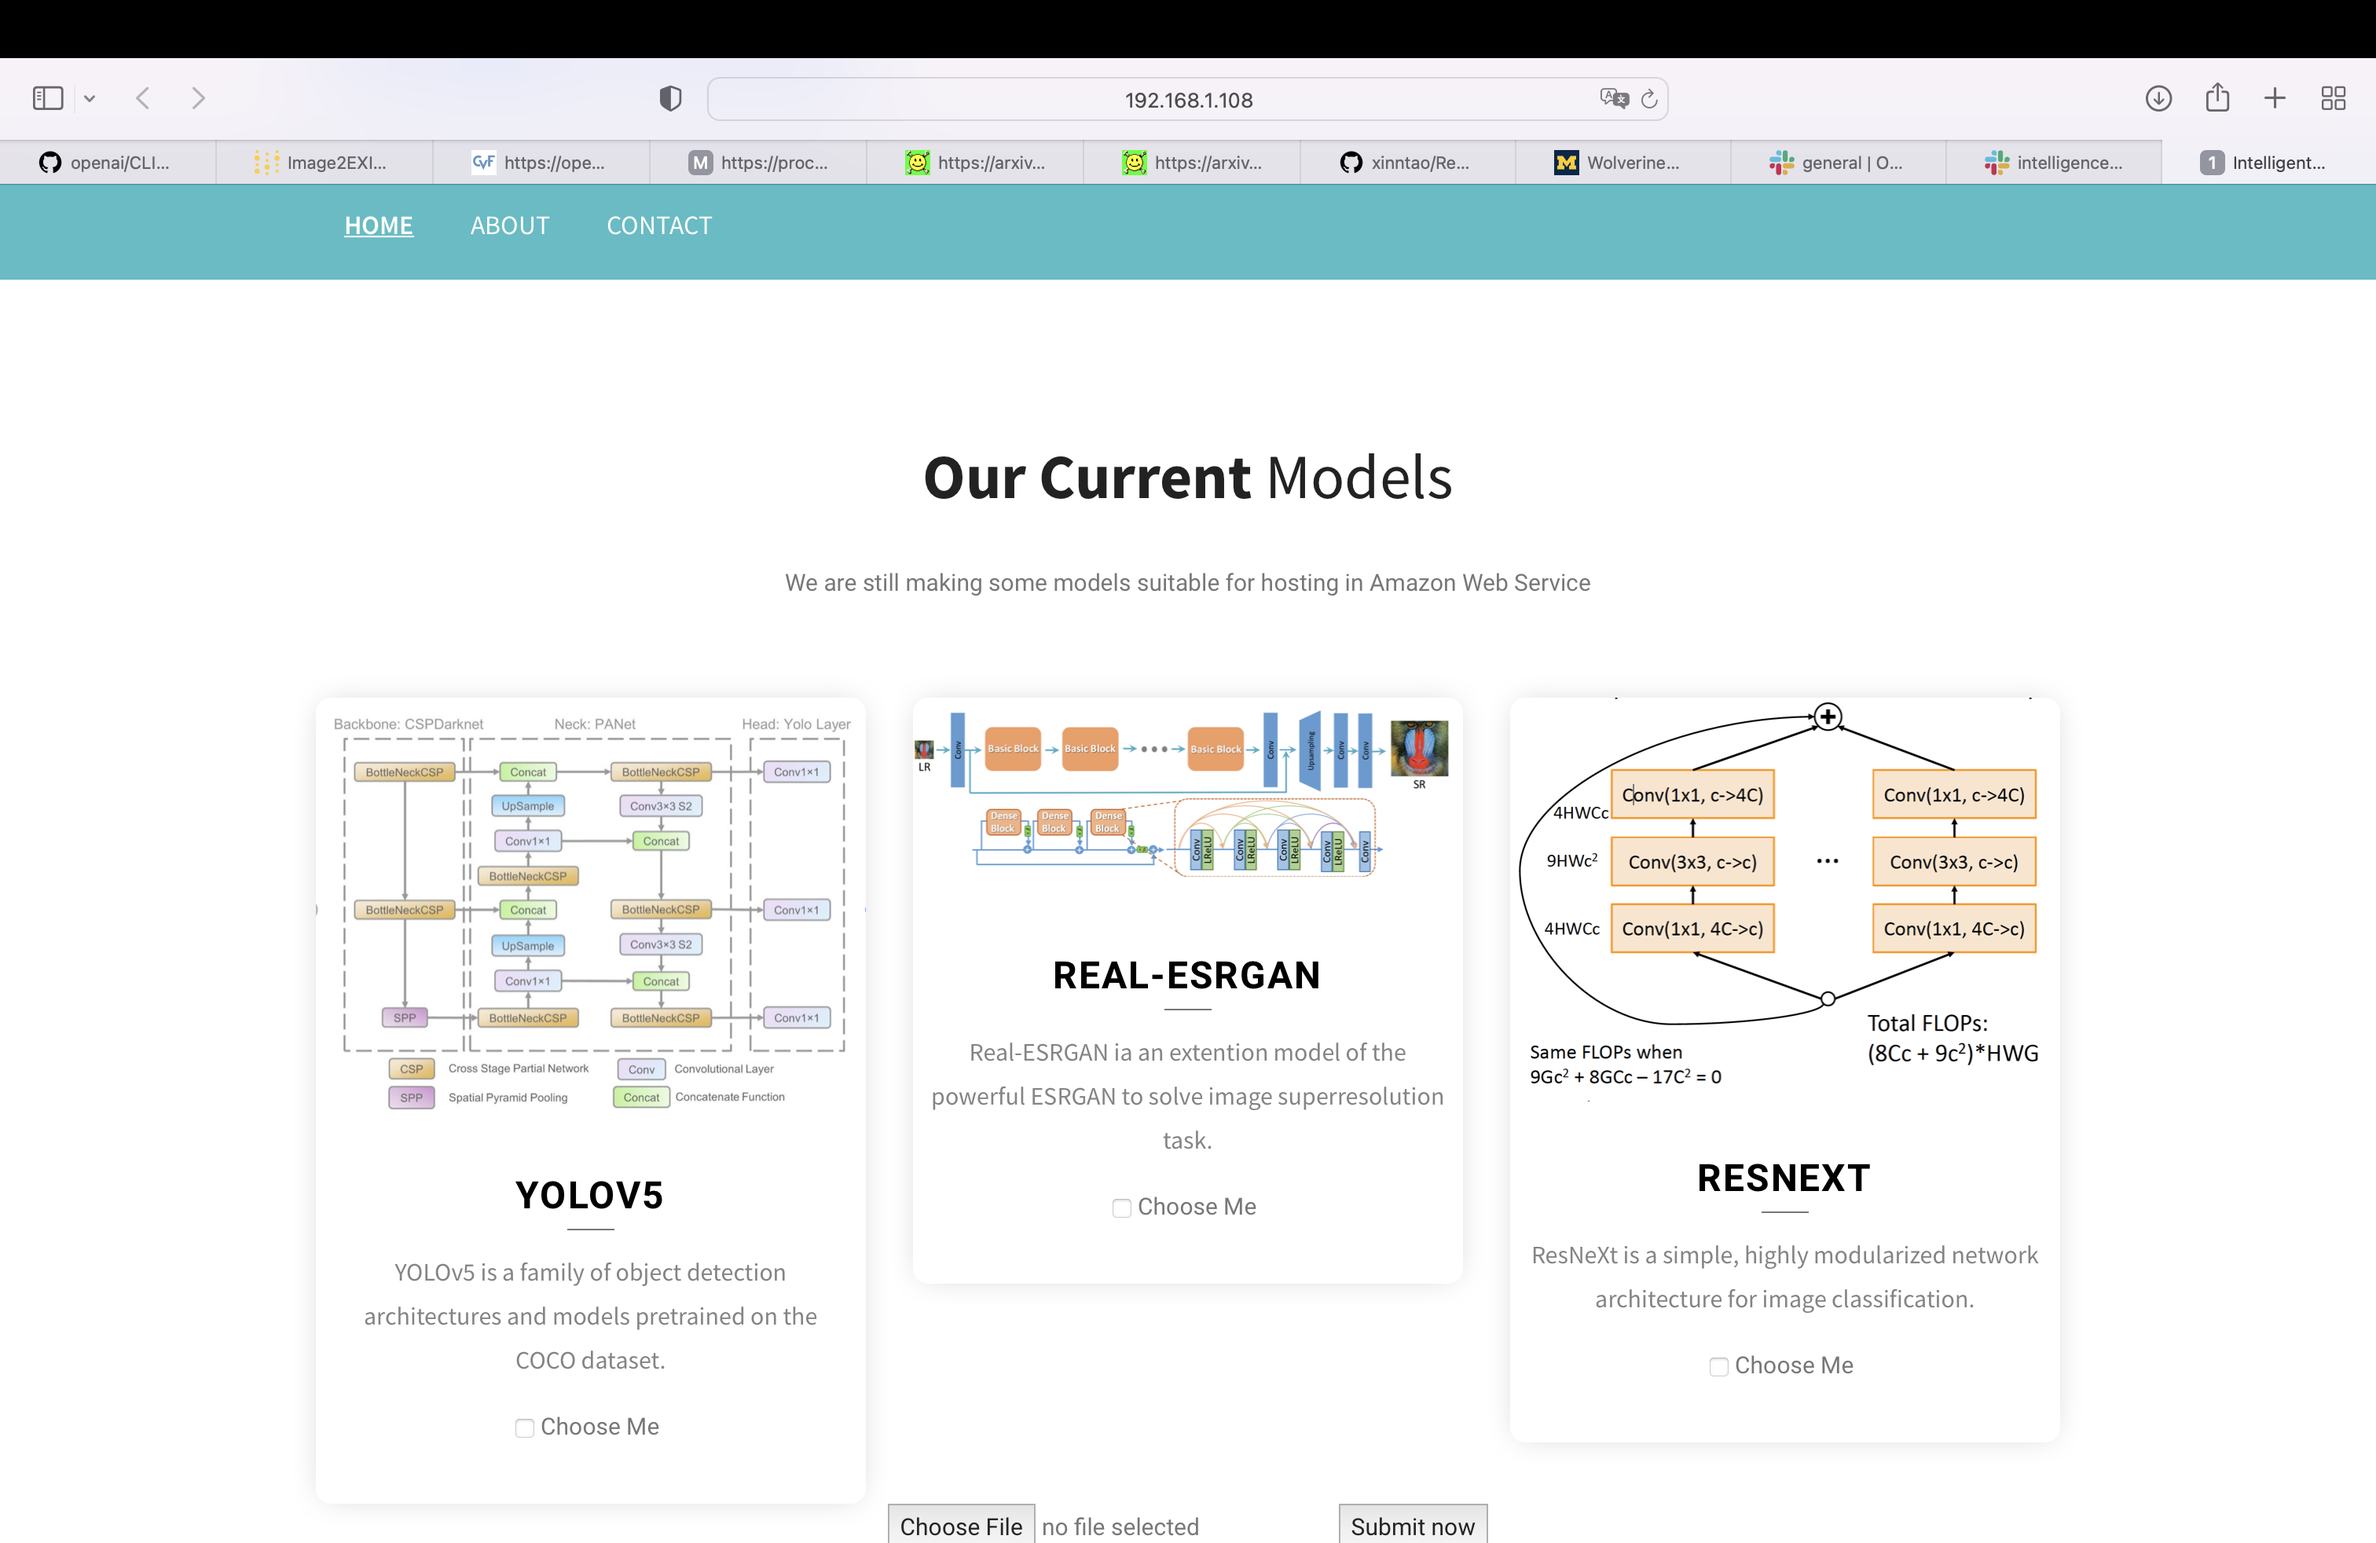
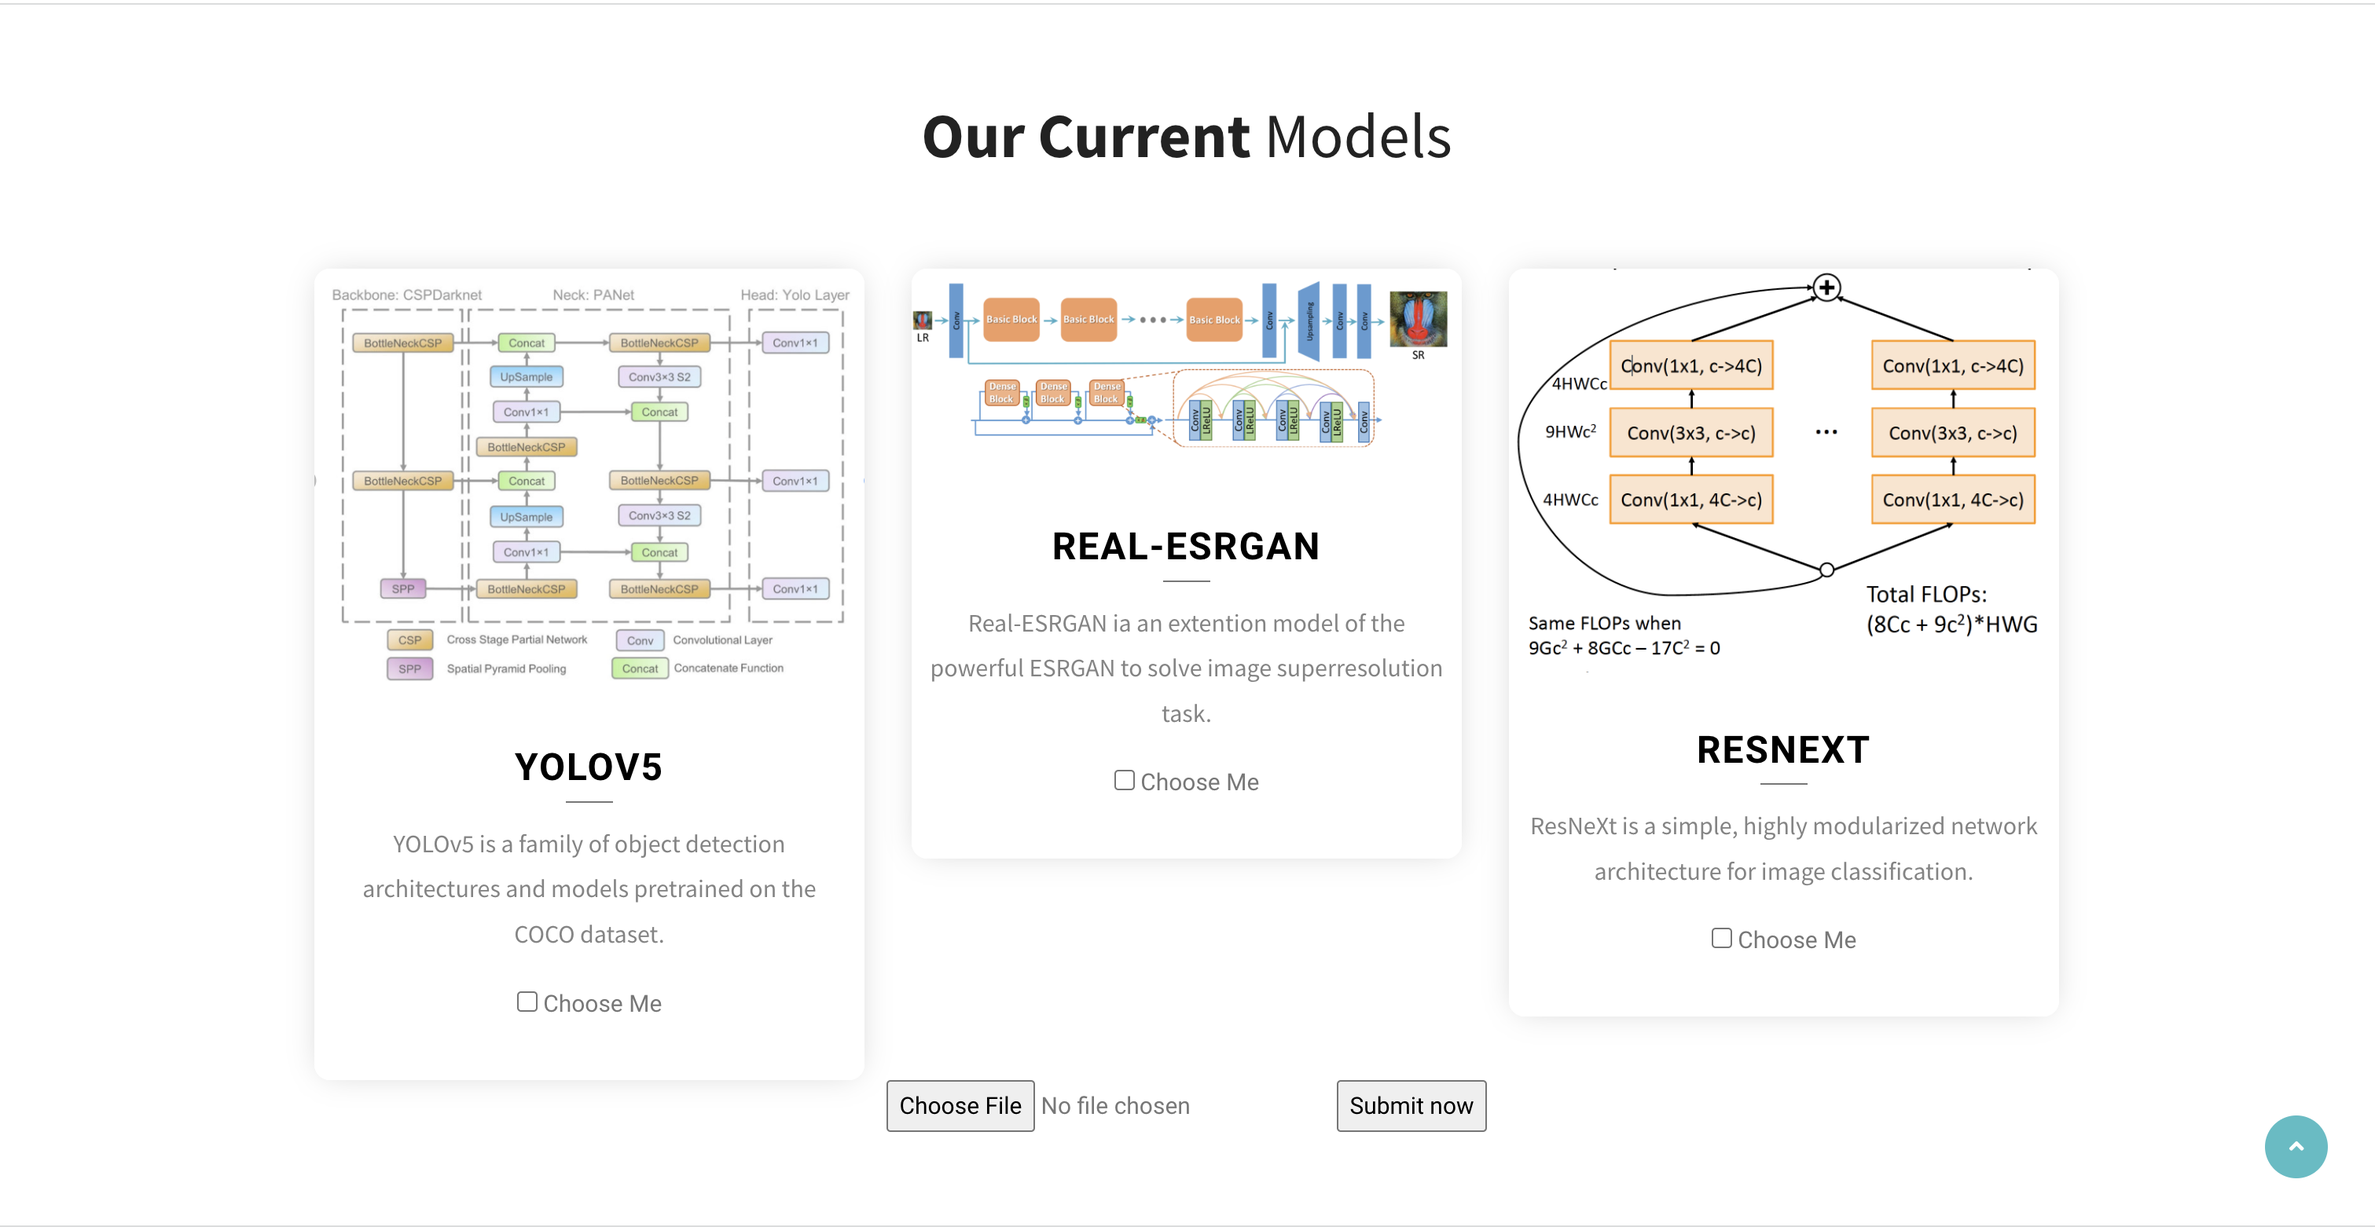
update README

diff --git a/backend/templates/index.html b/backend/templates/index.html
@@ -96,8 +96,6 @@ WEBSITE: https://themefisher.com
   </div>
 </section>
 <!--Header Upper-->
-
-
 <!--Main Header-->
 <nav class="navbar navbar-expand-lg navbar-dark">
   <div class="container">
@@ -149,10 +147,7 @@ WEBSITE: https://themefisher.com
   </div>
 </nav>
 <!--End Main Header -->
-
-
 <!--team section-->
-
 <form action = "" method = "POST" enctype="multipart/form-data" style="text-align:center">
 <section class="team-section section">
   <div class="container">
@@ -160,7 +155,7 @@ WEBSITE: https://themefisher.com
       <h3>Our Current
         <span>Models</span>
       </h3>
-      <p class="mb-0">We are still making some models suitable for hosting in Amazon Web Service</p>
+      <!-- <p class="mb-0">We are still making some models suitable for hosting in Amazon Web Service</p> -->
     </div>
     <div class="row justify-content-center">
       <div class="col-lg-4 col-md-6">

diff --git a/README.md b/README.md
@@ -5,16 +5,94 @@ This is a backend that integrate several AI models, aiming at enableing develope
 ## How to use it
 #### From Website
 
+The initial interface is as belows:
 
+![1](./readme_image/1.png)
+
+You can multi-select the models you like, choosing the file that you want to process, and click submit.
+
+Then you will be direct to the result page:
+
+![2](/Users/zhengchenhao/Desktop/Intelligent-Backend/readme_image/2.png)
+
+Each block represents the processed result of one model that you selected.  **Request The Backend Yourself** section tells you the API command if you want to request the backend directly. **Viewing Image** section gives you the processed result of your image. **Viewing Result** section presents the Json response message if you request the backend directly, which consists of three keys: **Latency, Result, and Download link**. The download link allows you to download the processed image directly.
+
+**Considering the big running cost of big language models and video models, we haven't enable text and video file submit. But we will definitely do it when we make our backend more scalable.**
 
 #### From command line API request
+
+1. **First, make sure you have [HTTPie](https://httpie.org/) installed.**
+
+To install, for linux and windows WSL:
+
+```bash
+sudo apt-get install httpie
+```
+
+For macOS:
+
+```bash
+brew install httpie
+```
+
+2. **Then you can request the backend directly:**
+
+```bash
+http --form POST http://localhost:8000/api/v1/{model_name}/ image=@{your_image_path}
+```
+
+where {model_name} is the model name that you choose, {your_image_path} is the relative or absolute path to the image that you want to process.
+
+You will get a JSON response like below:
+
+```python
+{
+  'download_file_link': '/yolo/download/', 
+ 	'latency': 'Speed: 2.6ms pre-process, 804.0ms inference, 9.1ms NMS per image'
+	'result': '1 bowl, 2 chairs, 1 couch, 3 potted plants, 5 books, 5 vases, ', 
+}
+```
 
 
 
 ## Current Support Models
+
 * Image Detection: Yolov5
 * Image Segmentation: segFormer
 * Image Superresolution: Real-ESRGAN
 * Image Classification: ResNext
 
+
+
 ## For future backend developers: How to add more models
+
+We have made it easy for future backend developers to add in more models. You do not need to read any code we wrote. All you need to do is using Flask framework, creating three API url endpoints in ./backend/api folder.
+
+Below we give an example of how to add in a model called my_awesome_model.
+
+1. create a new python file in ./backend/api folder. Name it whatever you like. Also create a folder to store your own model.
+
+   ![3](./readme_image/3.png)
+
+2. In my_awesome_model.py, you should have three url endpoint:
+
+   * /api/v1/{model_name}/:
+
+     This is the main url that deals with POST image request. It will receive post request that post an image (image name is guaranteed to be "1.jpg"). It should return a json, which has four keys: "latency", "result", "download_file_link", "upload_file_link".   Where "download_file_link" and "upload_file_link" just need to be filled with two endpoints that stated below.
+
+   * /{model_name}/download/:
+
+     It is the url endpoints that allow users to download the processed image. We recommand using `flask.send_file` function, which takes the `processed_file_path` as argument.  You can store the processed image anywhere in your model folder, just need to provide the path to `flask.send_file` as argument.
+
+   * /{model_name}/upload/:
+
+     It is the url endpoints that upload processed image in order to allow showing processed image in the website.  We recommand using `flask.send_from_directory` function. The argument is very similar to `flask.send_file` function,  the only difference is that it seperate the `processed_file_path` into `processed_file_directory` and `file_name.`
+
+     ![4](./readme_image/4.png)
+
+3.  Then add in the function that process /api/v1/{model_name}/ endpoints into `__init__.py` in backend/api folder.
+
+   ![5](./readme_image/5.png)
+
+4. At this point you are finished with creating an Rest API for your model. If you want to add your model to the UI interface of the website, please contact the author neymar@umich.edu.
+
